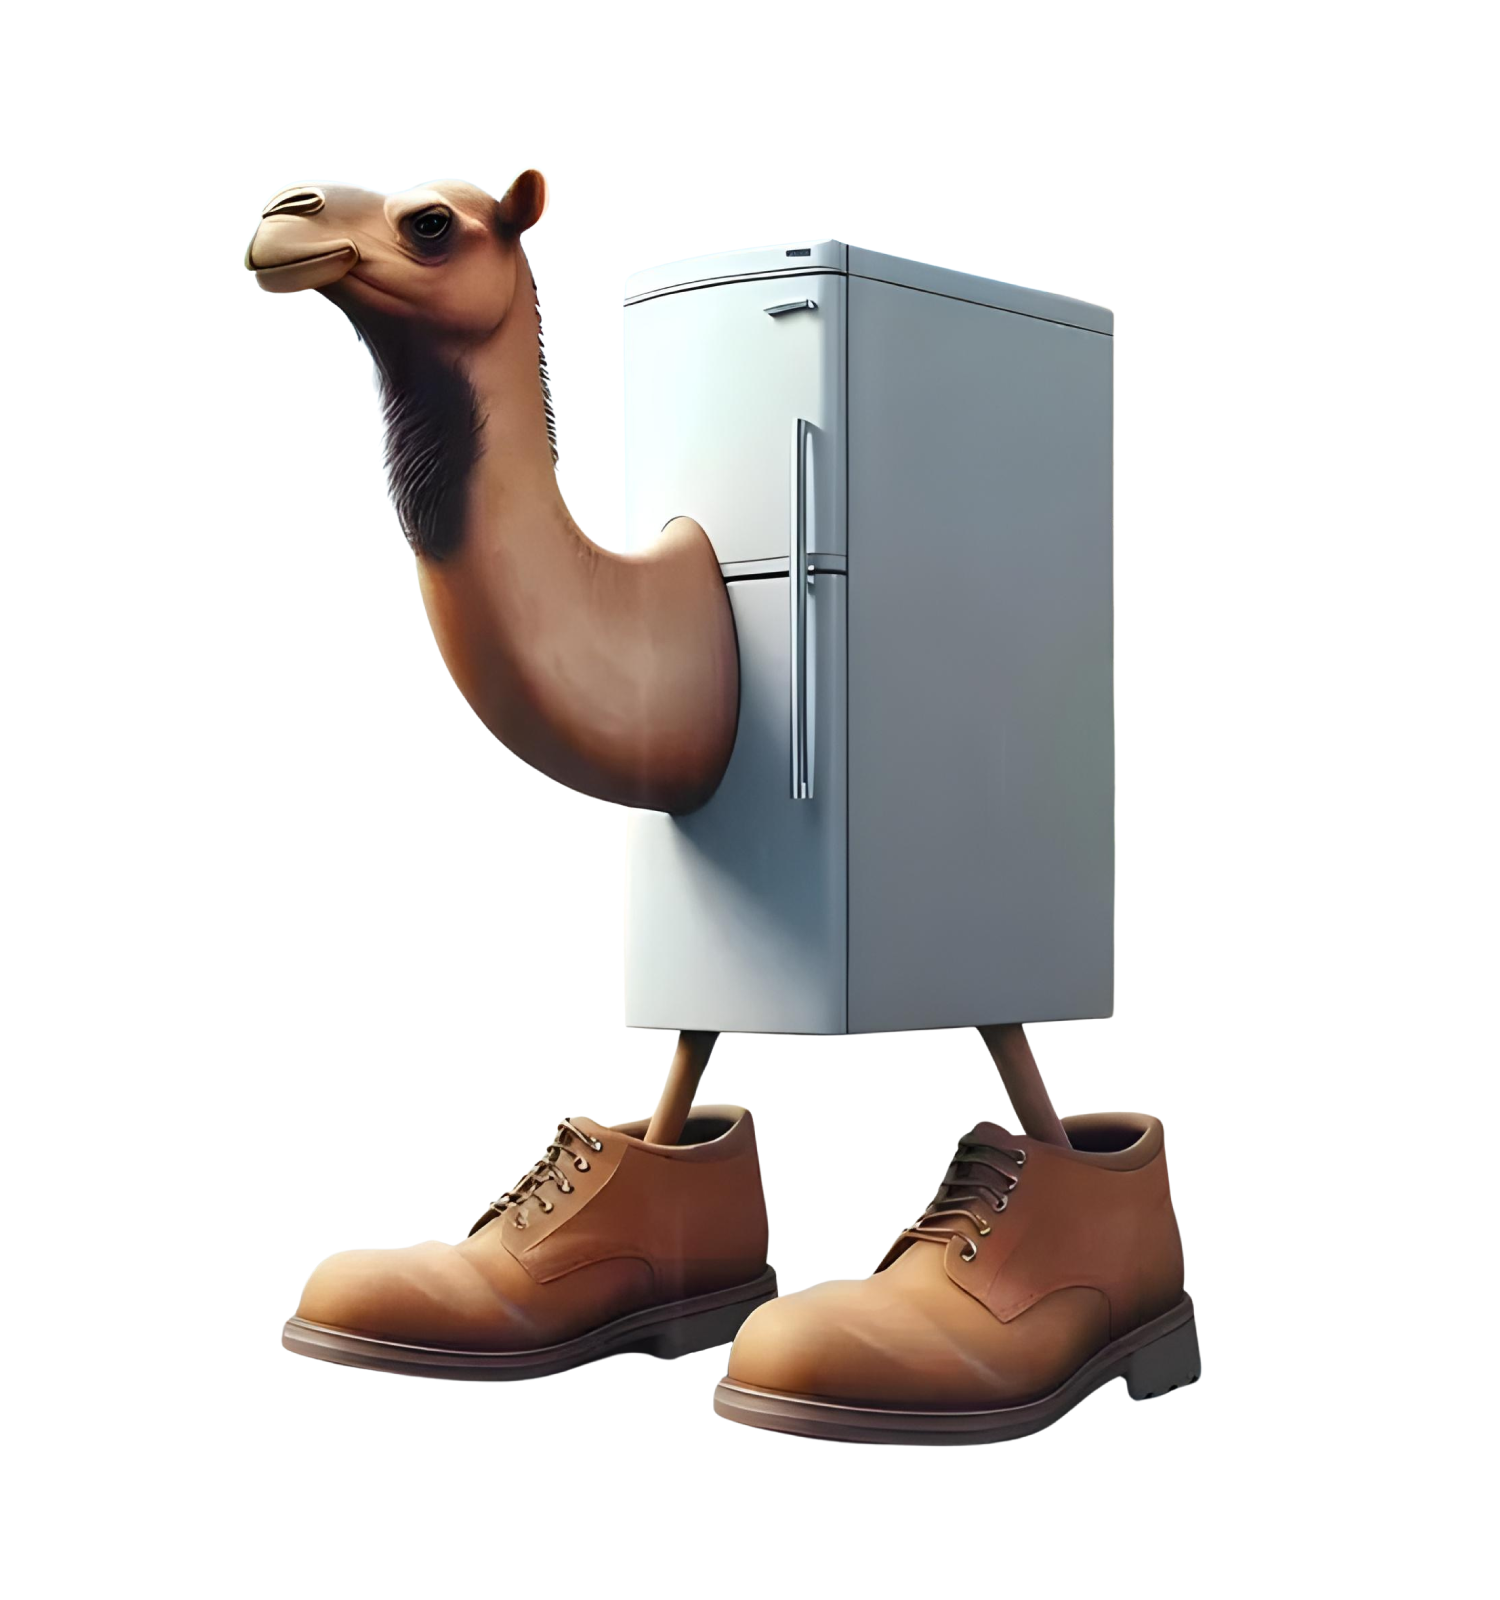
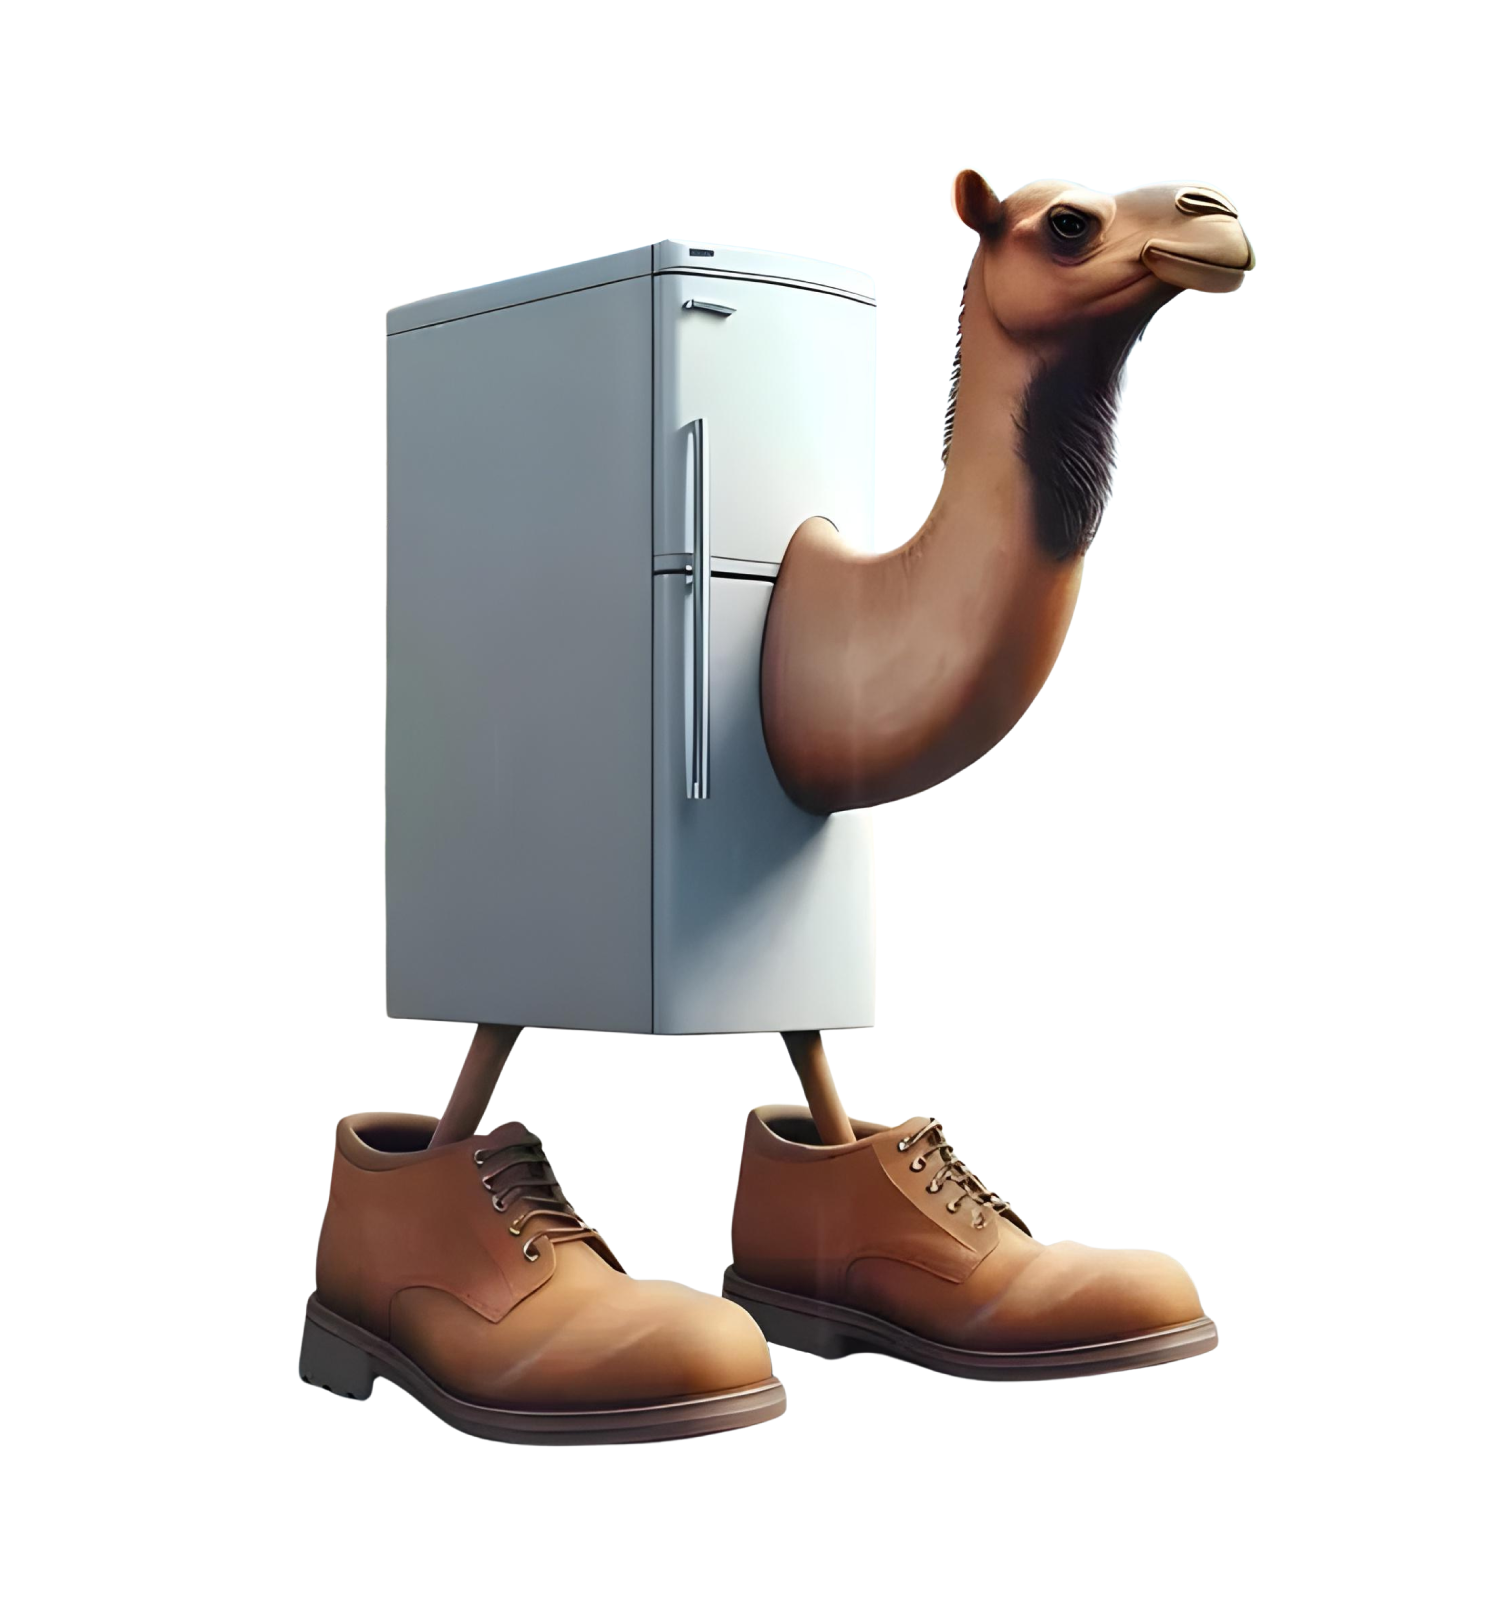
player 2 fix

diff --git a/Player+Map.py b/Player+Map.py
@@ -149,6 +149,8 @@ def main():
 
     player1 = Player(200, 100, "Boneca Ambalabu.png", controls_p1)
     player2 = Player(600, 100, "Frigo Camelo.png", controls_p2)
+    player2.image = pygame.transform.flip(player2.original_image, True, False)
+    player2.facing_right = False
 
     all_sprites = pygame.sprite.Group(player1, player2)
     font = pygame.font.SysFont(None, 36)
